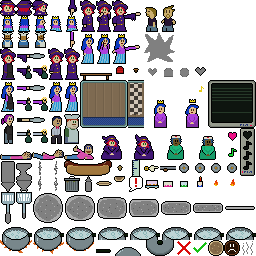
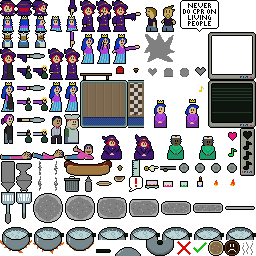
cpr: latency-proof scoring, decoration, nerf

Changed region(s): [[0.6875, 0.0, 1.0, 0.3125]]

diff --git a/src/game/battle/battle_cpr.c b/src/game/battle/battle_cpr.c
@@ -7,18 +7,15 @@
 /* With these parameters, you can revive the patient in a bar or two less than the song's length.
  */
 #define THUMP_TIME     0.200 /* sec. How long do we stay compressed, visual indication and also input blackout. */
-#define THRESH_BEST    0.250 /* Very very tolerant, I bet even my dad could hit this. */
-#define THRESH_WORST   0.150 /* beat. CPU can hit this reliably. I can hit it most of the time (with pulse driver, may vary) */
-#define INCREASE_BEST  0.100
-#define INCREASE_WORST 0.100
-#define DECREASE_BEST  0.050
+#define INCREASE_BEST  0.170
+#define INCREASE_WORST 0.110
+#define DECREASE_BEST  0.040
 #define DECREASE_WORST 0.050
-#define PENALTY_BEST   0.150
-#define PENALTY_WORST  0.250
-#define CPU_PENALTY    0.900 /* Multiplied to (increase) when there's one CPU player. */
+#define CPU_PENALTY    0.700 /* Multiplied to (increase) when there's one CPU player. */
 
 #define METRONOME_W 40 /* Must agree with graphics. */
 #define METRONOME_SPEED 0.060 /* Sec/pixel, and may run under 1 frame. */
+#define THUMP_LIMIT 6 /* Circular buffer, and its length determines how much we compare against for scoring. */
 
 struct battle_cpr {
   struct battle hdr;
@@ -33,10 +30,10 @@ struct battle_cpr {
     double skill; // 0..1, reverse of each other.
     uint32_t color;
     uint8_t tileid;
+    uint8_t face;
     double thump;
-    double thresh; // 0..1, must be this close to the beat.
+    double goodrange; // ms, how close must we be to score at all. <secperbeat/2.
     double increase; // 0..1, earn so much for a good thump.
-    double penalty; // 0..1, lose so much for a bad thump.
     double decrease; // 0..1, lose so much continuously per beat.
     double score; // 0..1, when it reaches 1 you win.
     struct metronome {
@@ -47,10 +44,13 @@ struct battle_cpr {
     double metroclock;
     double metrobeat;
     int mprint;
+    double thumpv[THUMP_LIMIT];
+    int thumpc,thumpp;
     // Man:
     int pvinput;
     // CPU:
-    double pvbeat;
+    double errlo,errhi;
+    double cpuclock;
   } playerv[2];
 };
 
@@ -72,10 +72,22 @@ static void player_init(struct battle *battle,struct player *player,int human,in
   } else { // Right.
     player->who=1;
   }
+  
+  player->metronomep=rand()%METRONOME_W; // It looks weird if they're in phase with each other.
+  player->increase=INCREASE_WORST*(1.0-player->skill)+INCREASE_BEST*player->skill;
+  player->decrease=DECREASE_WORST*(1.0-player->skill)+DECREASE_BEST*player->skill;
+  player->goodrange=BATTLE->secperbeat/2.0;
+  player->goodrange=player->skill*player->goodrange+(1.0-player->skill)*0.080;
+  
   if (player->human=human) { // Human.
   } else { // CPU.
+    // CPU increase penalty is applied by _cpr_init.
+    player->goodrange*=0.800;
+    player->errhi=0.040*player->skill+0.060*(1.0-player->skill);
+    player->errlo=player->errhi*0.5;
+    player->cpuclock=BATTLE->secperbeat*2.0; // Give the humans a wee head start.
   }
-  switch (face) {
+  switch (player->face=face) {
     case NS_face_monster: {
         player->color=0x1cb77cff;
         player->tileid=0x8a;
@@ -89,17 +101,27 @@ static void player_init(struct battle *battle,struct player *player,int human,in
         player->tileid=0x69;
       } break;
   }
-  player->metronomep=rand()%METRONOME_W; // It looks weird if they're in phase with each other.
-  player->thresh=THRESH_WORST*(1.0-player->skill)+THRESH_BEST*player->skill;
-  player->increase=INCREASE_WORST*(1.0-player->skill)+INCREASE_BEST*player->skill;
-  player->decrease=DECREASE_WORST*(1.0-player->skill)+DECREASE_BEST*player->skill;
-  player->penalty=PENALTY_WORST*(1.0-player->skill)+PENALTY_BEST*player->skill;
 }
 
 /* New.
  */
  
 static int _cpr_init(struct battle *battle) {
+  
+  // Read tempo off the song resource.
+  const uint8_t *src=0;
+  int srcc=res_get(&src,EGG_TID_song,RID_song_heart_thumpin);
+  if ((srcc<6)||memcmp(src,"\0EAU",4)) {
+    fprintf(stderr,"song:%d(heart_thumpin) not valid EAU\n",RID_song_heart_thumpin);
+    return -1;
+  }
+  int msperqnote=(src[4]<<8)|src[5];
+  if (msperqnote<1) {
+    fprintf(stderr,"song:%d invalid tempo %d\n",RID_song_heart_thumpin,msperqnote);
+    return -1;
+  }
+  // The song's tempo is rated for beats twice as fast as we want, hence *2. It works out to 688 ms.
+  BATTLE->secperbeat=(double)(msperqnote*2.0)/1000.0;
 
   battle_normalize_bias(&BATTLE->playerv[0].skill,&BATTLE->playerv[1].skill,battle);
   player_init(battle,BATTLE->playerv+0,battle->args.lctl,battle->args.lface);
@@ -117,21 +139,6 @@ static int _cpr_init(struct battle *battle) {
   
   battle_song(RID_song_heart_thumpin);
   
-  // Read tempo off the song resource.
-  const uint8_t *src=0;
-  int srcc=res_get(&src,EGG_TID_song,RID_song_heart_thumpin);
-  if ((srcc<6)||memcmp(src,"\0EAU",4)) {
-    fprintf(stderr,"song:%d(heart_thumpin) not valid EAU\n",RID_song_heart_thumpin);
-    return -1;
-  }
-  int msperqnote=(src[4]<<8)|src[5];
-  if (msperqnote<1) {
-    fprintf(stderr,"song:%d invalid tempo %d\n",RID_song_heart_thumpin,msperqnote);
-    return -1;
-  }
-  // The song's tempo is rated for beats twice as fast as we want, hence *2:
-  BATTLE->secperbeat=(double)(msperqnote*2.0)/1000.0;
-  
   return 0;
 }
 
@@ -144,20 +151,36 @@ static void player_thump(struct battle *battle,struct player *player) {
   player->thump=THUMP_TIME;
   player->mprint=0;
   
-  /* CPU is perfect but will always strike in >=0.
-   * I haven't seen it land above 0.100 and it's almost always under 0.050.
-   * A quick test of my own, I consistently land under 0.150.
-   * All bets are off under about 0.033 due to quantization but actually drivers will introduce more uncertainty than that.
+  /* Record the thump time.
    */
-  double distance=BATTLE->beat;
-  if (distance<0.0) distance=-distance;
-  //if (!player->who) fprintf(stderr,"%.03f\n",distance);//XXX
-  if (distance<=player->thresh) {
-    player->score+=player->increase;
-  } else {
-    //XXX Don't penalize bad strokes, it's already hard enough.
-    //if ((player->score-=player->penalty)<=0.0) player->score=0.0;
+  player->thumpv[player->thumpp++]=BATTLE->playhead;
+  if (player->thumpp>=THUMP_LIMIT) player->thumpp=0;
+  if (player->thumpc<THUMP_LIMIT) player->thumpc++;
+  
+  /* Walk backward thru all recorded thumps.
+   * Expect each to be (secperbeat) earlier, on a scale anchored by the new beat.
+   * If we walk off the start, the song has looped, reset that scale.
+   * Experimentally, my RMS is usually in 10..20 ms and never hits 100 ms unless I'm trying to fail. Beats are 688 ms.
+   */
+  int i=player->thumpc;
+  int checkp=player->thumpp;
+  double expecttime=-1.0; // <0 to reset, call the next thump perfect
+  double offness2=0.0; // Sum of squared deltas.
+  while (i-->0) {
+    checkp--;
+    if (checkp<0) checkp=THUMP_LIMIT-1;
+    expecttime-=BATTLE->secperbeat;
+    if (expecttime<0.0) expecttime=player->thumpv[checkp];
+    double d=player->thumpv[checkp]-expecttime;
+    offness2+=d*d;
   }
+  double offness=sqrt(offness2/player->thumpc);
+  
+  /* Compare RMS of thump times to our goodrange.
+   */
+  double quality=1.0-offness/player->goodrange;
+  if (quality<=0.0) return;
+  player->score+=player->increase*quality;
 }
 
 /* Update human player.
@@ -176,10 +199,13 @@ static void player_update_man(struct battle *battle,struct player *player,double
  */
  
 static void player_update_cpu(struct battle *battle,struct player *player,double elapsed) {
-  if ((BATTLE->beat>=0.0)&&(player->pvbeat<0.0)) {
+  if ((player->cpuclock-=elapsed)<=0.0) {
+    double err=(rand()&0xffff)/65535.0;
+    err=err*player->errlo+(1.0-err)*player->errhi;
+    if (rand()&1) err=-err;
+    player->cpuclock+=BATTLE->secperbeat+err;
     player_thump(battle,player);
   }
-  player->pvbeat=BATTLE->beat;
 }
 
 /* -1..1 metronome displacement for 0..THUMP_TIME.
@@ -257,8 +283,10 @@ static void _cpr_update(struct battle *battle,double elapsed) {
   struct player *player=BATTLE->playerv;
   int i=2;
   for (;i-->0;player++) {
-    if (player->human) player_update_man(battle,player,elapsed,g_input[player->human]);
-    else player_update_cpu(battle,player,elapsed);
+    if (battle->outcome==-2) {
+      if (player->human) player_update_man(battle,player,elapsed,g_input[player->human]);
+      else player_update_cpu(battle,player,elapsed);
+    }
     player_update_common(battle,player,elapsed);
   }
   
@@ -266,7 +294,6 @@ static void _cpr_update(struct battle *battle,double elapsed) {
    */
   struct player *l=BATTLE->playerv;
   struct player *r=l+1;
-  //fprintf(stderr,"%.03f %.03f\n",l->score,r->score);
   if (l->score>=1.0) {
     if (r->score>=1.0) battle->outcome=0;
     else battle->outcome=1;
@@ -378,13 +405,41 @@ static void player_render_over(struct battle *battle,struct player *player) {
   while (notexc-->0) {
     graf_tile(g_graf,notexv[notexc],sy+10,0x5c,0);
   }
+  
+  // There's a separate set of tiles for the metronome's foreground, to clip out stray notes.
+  graf_tile(g_graf,x-NS_sys_tilesize,my-NS_sys_tilesize,0x2d,0);
+  graf_tile(g_graf,x                ,my-NS_sys_tilesize,0x2e,0);
+  graf_tile(g_graf,x+NS_sys_tilesize,my-NS_sys_tilesize,0x2f,0);
+  graf_tile(g_graf,x-NS_sys_tilesize,my                ,0x3d,0);
+  graf_tile(g_graf,x                ,my                ,0x3e,0);
+  graf_tile(g_graf,x+NS_sys_tilesize,my                ,0x3f,0);
+  graf_tile(g_graf,x-NS_sys_tilesize,my+NS_sys_tilesize,0x4d,0);
+  graf_tile(g_graf,x                ,my+NS_sys_tilesize,0x4e,0);
+  graf_tile(g_graf,x+NS_sys_tilesize,my+NS_sys_tilesize,0x4f,0);
+  
+  /* If I'm a nurse and the battle is over, render the PSA.
+   * I want to bill Bellacopia generally as "you can play lots of these minigames in real life!". (eg Throwing Contest, Home Run Derby...)
+   * But that is emphatically not the case for CPR, and it might not be obvious to a child.
+   */
+  if ((battle->outcome>-2)&&(player->face==NS_face_monster)) {
+    int srcx=NS_sys_tilesize*11;
+    int srcy=0;
+    int w=NS_sys_tilesize*3;
+    int h=NS_sys_tilesize*2;
+    graf_decal(g_graf,x-(w>>1),PLAYERY-h-13,srcx,srcy,w,h);
+  }
 }
 
 /* Render.
  */
  
 static void _cpr_render(struct battle *battle) {
-  graf_fill_rect(g_graf,0,0,FBW,FBH,0x808080ff);
+
+  const int groundy=PLAYERY+NS_sys_tilesize-1;
+  graf_fill_rect(g_graf,0,0,FBW,FBH,0x8c979bff);
+  graf_fill_rect(g_graf,0,groundy,FBW,FBH-groundy,0x789a7bff);
+  graf_fill_rect(g_graf,0,groundy,FBW,1,0x000000ff);
+
   graf_set_image(g_graf,RID_image_battle_fractia);
   player_render_tiles(battle,BATTLE->playerv+0);
   player_render_tiles(battle,BATTLE->playerv+1);

diff --git a/src/game/modal/modal_arcade.c b/src/game/modal/modal_arcade.c
@@ -8,7 +8,7 @@
 
 #include "game/bellacopia.h"
 
-#define PRESELECT_BATTLE NS_battle_strangling
+#define PRESELECT_BATTLE NS_battle_cpr
 
 #define ROWC 20 /* FBH / font height */
 #define KEY_REPEAT_INITIAL 0.250

diff --git a/README.md b/README.md
@@ -35,7 +35,7 @@ Requires [Egg](https://github.com/aksommerville/egg2) to build.
 
 ## TODO
 
-- [ ] !!! Definitely repair and nerf the CPR Contest before GDEX. It's very hard to play on the cabinet right now.
+- [x] !!! Definitely repair and nerf the CPR Contest before GDEX. It's very hard to play on the cabinet right now.
 - [x] !!! In the recent door-repair work, I fucked it up even worse for brooming. And when you leave the labyrinth and cutscene plays, you go back incorrectly.
 - [x] Two errant tiles in the ice palace.
 - [ ] Make something happen if you beat a guild outside the election.
@@ -52,6 +52,7 @@ Requires [Egg](https://github.com/aksommerville/egg2) to build.
 - [ ] Have the knitter give a purse upgrade instead of Bell. Make Wrapping Contest the only way to get Bell.
 - [ ] Make a fish that can only be caught in the dark.
 - [ ] `sprite:nurse` and `activity:bloodbank` have been removed. We can delete the sprite and activity if that's final.
+- [ ] Does maxxing inventory at the Cave of Cheating trigger the things story? Just curious.
 
 - Challenges for Ice Palace and other bonus zones. Underworld. Back of the temple? Goblins' cave?
 - - We can really cut loose with these and make them ridiculously hard, since they'll never be mandatory.
@@ -73,7 +74,7 @@ Requires [Egg](https://github.com/aksommerville/egg2) to build.
 - - [ ] Underground entrance house
 - - [ ] Public Sector Employees' Union
 - - [ ] Food Service Guild
-- - [ ] Nurse should have a little boombox.
+- - [x] Nurse should have a little boombox.
 - [ ] Forest / Cheapside / Meadow
 - - [ ] Exteriors.
 - - [ ] Dot's house
@@ -121,7 +122,7 @@ Requires [Egg](https://github.com/aksommerville/egg2) to build.
 - - If there's real prizes, they need to be in addition to the score-bearing ones, like have two things available at once, otherwise Minimalists can't avoid them.
 - [ ] cheating: Have the acorn fall out of the hustler's sleeve at the end, and show that all the cups are empty.
 - [ ] cheating: Make the background graphics more casiny.
-- [ ] cpr: Score by counting strokes and comparing their timing to their own standard deviation -- should be completely immune to audio latency.
+- [x] cpr: Score by counting strokes and comparing their timing to their own standard deviation -- should be completely immune to audio latency.
 - [ ] cpr: It's weird how your winning stroke is Down but the patient pops Up. Can we delay his reaction or something, make it feel bouncier?
 - [ ] homerunderby: I don't like how foul tips count immediately as a Strike.
 - [ ] mindcontrol: Make a more continuous connection state, like sometimes the connection is better than others.
